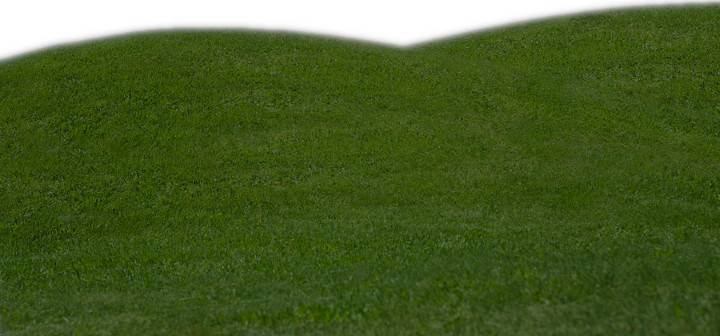
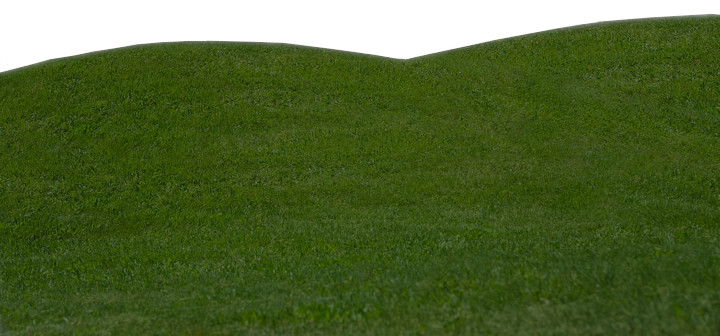
Completed mobile design

Changed region(s): [[0.0, 0.0, 1.0, 0.2381]]

diff --git a/styles/styles.css b/styles/styles.css
@@ -182,47 +182,109 @@ section.location img {
 footer {
   background-color: #fff;
   background-image: url("../images/grassy-knoll.jpg");
-  background-position: center;
+  background-position: -400px 0px;
   background-repeat: no-repeat;
   background-size: cover;
-  padding-top: 5rem;
   text-align: center;
+  padding-bottom: 5rem;
+}
+footer img {
+  padding-top: 3rem;
 }
 footer h2 {
   color: #fff;
-  margin-top: 2rem;
+  margin: 1rem 0;
 }
-footer form {
+footer .footer-div {
+  padding: 0 1rem;
+  color: #fff;
+}
+footer .footer-div form {
   width: 100%;
   display: flex;
   flex-direction: column;
-  padding: 0.25rem 1rem;
+  padding: 0.25rem 0;
 }
-footer form input,
-footer form textarea {
+footer .footer-div form input,
+footer .footer-div form textarea {
   font-size: 1rem;
-  padding: 0.5rem;
+  padding: 1rem;
   background-color: rgba(170, 170, 170, 0.6666666667);
   color: #ccc;
   border: 1px solid #ddd;
   margin-bottom: 0.5rem;
   border-radius: 5px;
 }
-footer form input::-moz-placeholder, footer form textarea::-moz-placeholder {
+footer .footer-div form input::-moz-placeholder, footer .footer-div form textarea::-moz-placeholder {
   color: #ccc;
 }
-footer form input::placeholder,
-footer form textarea::placeholder {
+footer .footer-div form input::placeholder,
+footer .footer-div form textarea::placeholder {
   color: #ccc;
 }
-footer form button#submit {
+footer .footer-div form button#submit {
   background-color: #557936;
   padding: 1rem 3rem;
   border: 1px solid #fff;
   border-radius: 5px;
   font-weight: 400;
-  font-size: 1rem;
+  font-size: 1.25rem;
   color: #fff;
+  letter-spacing: 1.5px;
+}
+footer .footer-div .follow-us {
+  display: flex;
+  align-items: center;
+  margin: 3rem 0;
+}
+footer .footer-div .follow-us h3 {
+  margin-right: 2rem;
+  font-weight: 400;
+}
+footer .footer-div .follow-us .social-icons {
+  display: flex;
+}
+footer .footer-div .follow-us .social-icons .fa-brands {
+  border-radius: 50%;
+  width: 40px;
+  height: 40px;
+  display: flex;
+  justify-content: center;
+  align-items: center;
+  cursor: pointer;
+  font-size: 24px;
+}
+footer .footer-div .follow-us .social-icons .fa-facebook-f {
+  color: #fff;
+  background-color: #4267b2;
+}
+footer .footer-div .follow-us .social-icons .fa-instagram {
+  background: linear-gradient(45deg, #ffdc80, #af2eb7);
+  margin: 0 1rem;
+}
+footer .footer-div .follow-us .social-icons .fa-x-twitter {
+  background-color: rgba(204, 204, 204, 0.4666666667);
+}
+footer .footer-div.split {
+  display: flex;
+  text-align: left;
+}
+footer .footer-div.split h4 {
+  text-align: left;
+  font-weight: 400;
+  margin-bottom: 1rem;
+}
+footer .footer-div.split h5 {
+  margin-top: 1rem;
+}
+footer .footer-div.split ul {
+  list-style-type: none;
+}
+footer .footer-div.split ul li:nth-child(2) {
+  margin: 1rem 0;
+}
+footer .footer-div.split p {
+  color: #ccc;
 }
 
 @supports (height: 100dvh) {

diff --git a/styles/styles.scss b/styles/styles.scss
@@ -159,47 +159,125 @@ section {
 footer {
 	background-color: #fff;
 	background-image: url("../images/grassy-knoll.jpg");
-	background-position: center;
+	background-position: -400px 0px;
 	background-repeat: no-repeat;
 	background-size: cover;
-	padding-top: 5rem;
 	text-align: center;
+	padding-bottom: 5rem;
+
+	img {
+		padding-top: 3rem;
+	}
 
 	h2 {
 		color: #fff;
-		margin-top: 2rem;
+		margin: 1rem 0;
 	}
 
-	form {
-		width: 100%;
-		display: flex;
-		flex-direction: column;
-		padding: 0.25rem 1rem;
+	.footer-div {
+		padding: 0 1rem;
+		color: #fff;
 
-		input,
-		textarea {
-			font-size: 1rem;
-			padding: 0.5rem;
-			background-color: #aaaaaaaa;
-			color: #ccc;
-			border: 1px solid #ddd;
-			margin-bottom: 0.5rem;
-			border-radius: 5px;
+		form {
+			width: 100%;
+			display: flex;
+			flex-direction: column;
+			padding: 0.25rem 0;
 
-			&::placeholder {
+			input,
+			textarea {
+				font-size: 1rem;
+				padding: 1rem;
+				background-color: #aaaaaaaa;
 				color: #ccc;
+				border: 1px solid #ddd;
+				margin-bottom: 0.5rem;
+				border-radius: 5px;
+
+				&::placeholder {
+					color: #ccc;
+				}
+			}
+
+			button {
+				&#submit {
+					background-color: #557936;
+					padding: 1rem 3rem;
+					border: 1px solid #fff;
+					border-radius: 5px;
+					font-weight: 400;
+					font-size: 1.25rem;
+					color: #fff;
+					letter-spacing: 1.5px;
+				}
 			}
 		}
 
-		button {
-			&#submit {
-				background-color: #557936;
-				padding: 1rem 3rem;
-				border: 1px solid #fff;
-				border-radius: 5px;
+		.follow-us {
+			display: flex;
+			align-items: center;
+			margin: 3rem 0;
+
+			h3 {
+				margin-right: 2rem;
 				font-weight: 400;
-				font-size: 1rem;
-				color: #fff;
+			}
+
+			.social-icons {
+				display: flex;
+
+				.fa-brands {
+					border-radius: 50%;
+					width: 40px;
+					height: 40px;
+					display: flex;
+					justify-content: center;
+					align-items: center;
+					cursor: pointer;
+					font-size: 24px;
+				}
+				.fa-facebook-f {
+					color: #fff;
+					background-color: #4267b2;
+				}
+
+				.fa-instagram {
+					background: linear-gradient(45deg, #ffdc80, #af2eb7);
+					margin: 0 1rem;
+				}
+
+				.fa-x-twitter {
+					background-color: #cccccc77;
+				}
+			}
+		}
+
+		&.split {
+			display: flex;
+			text-align: left;
+
+			h4 {
+				text-align: left;
+				font-weight: 400;
+				margin-bottom: 1rem;
+			}
+
+			h5 {
+				margin-top: 1rem;
+			}
+
+			ul {
+				list-style-type: none;
+
+				li {
+					&:nth-child(2) {
+						margin: 1rem 0;
+					}
+				}
+			}
+
+			p {
+				color: #ccc;
 			}
 		}
 	}

diff --git a/index.html b/index.html
@@ -29,7 +29,7 @@
 					<div id="line-3" class="hamburger-line"></div>
 				</div>
 				<div class="logo-and-title">
-					<img src="images/grassy_knoll_logo.jpg" width="100" height="100" />
+					<img src="images/grassy_knoll_logo.png" width="100" height="100" />
 				</div>
 				<div class="shopping-cart">
 					<i class="fa-solid fa-cart-shopping fa-2x"></i>
@@ -82,6 +82,7 @@
 			<h3>We are located in McKinney, TX. Come see us!</h3>
 		</section>
 		<footer>
+			<img src="images/grassy_knoll_logo.png" />
 			<h2>Grassy Knoll Disc Golf</h2>
 			<div class="footer-div">
 				<form>
@@ -96,9 +97,9 @@
 					<button id="submit">SUBMIT</button>
 				</form>
 				<div class="follow-us">
-					<p>FOLLOW US</p>
+					<h3>FOLLOW US</h3>
 					<div class="social-icons">
-						<i class="fa-brands fa-facebook"></i>
+						<i class="fa-brands fa-facebook-f"></i>
 						<i class="fa-brands fa-instagram"></i>
 						<i class="fa-brands fa-x-twitter"></i>
 					</div>
@@ -108,7 +109,7 @@
 				<div>
 					<h4>CONTACT US</h4>
 					<h5>Address:</h5>
-					<address>McKinney, TX</address>
+					<p>McKinney, TX</p>
 					<h5>Call:</h5>
 					<p>999-999-9999</p>
 					<h5>Email:</h5>
